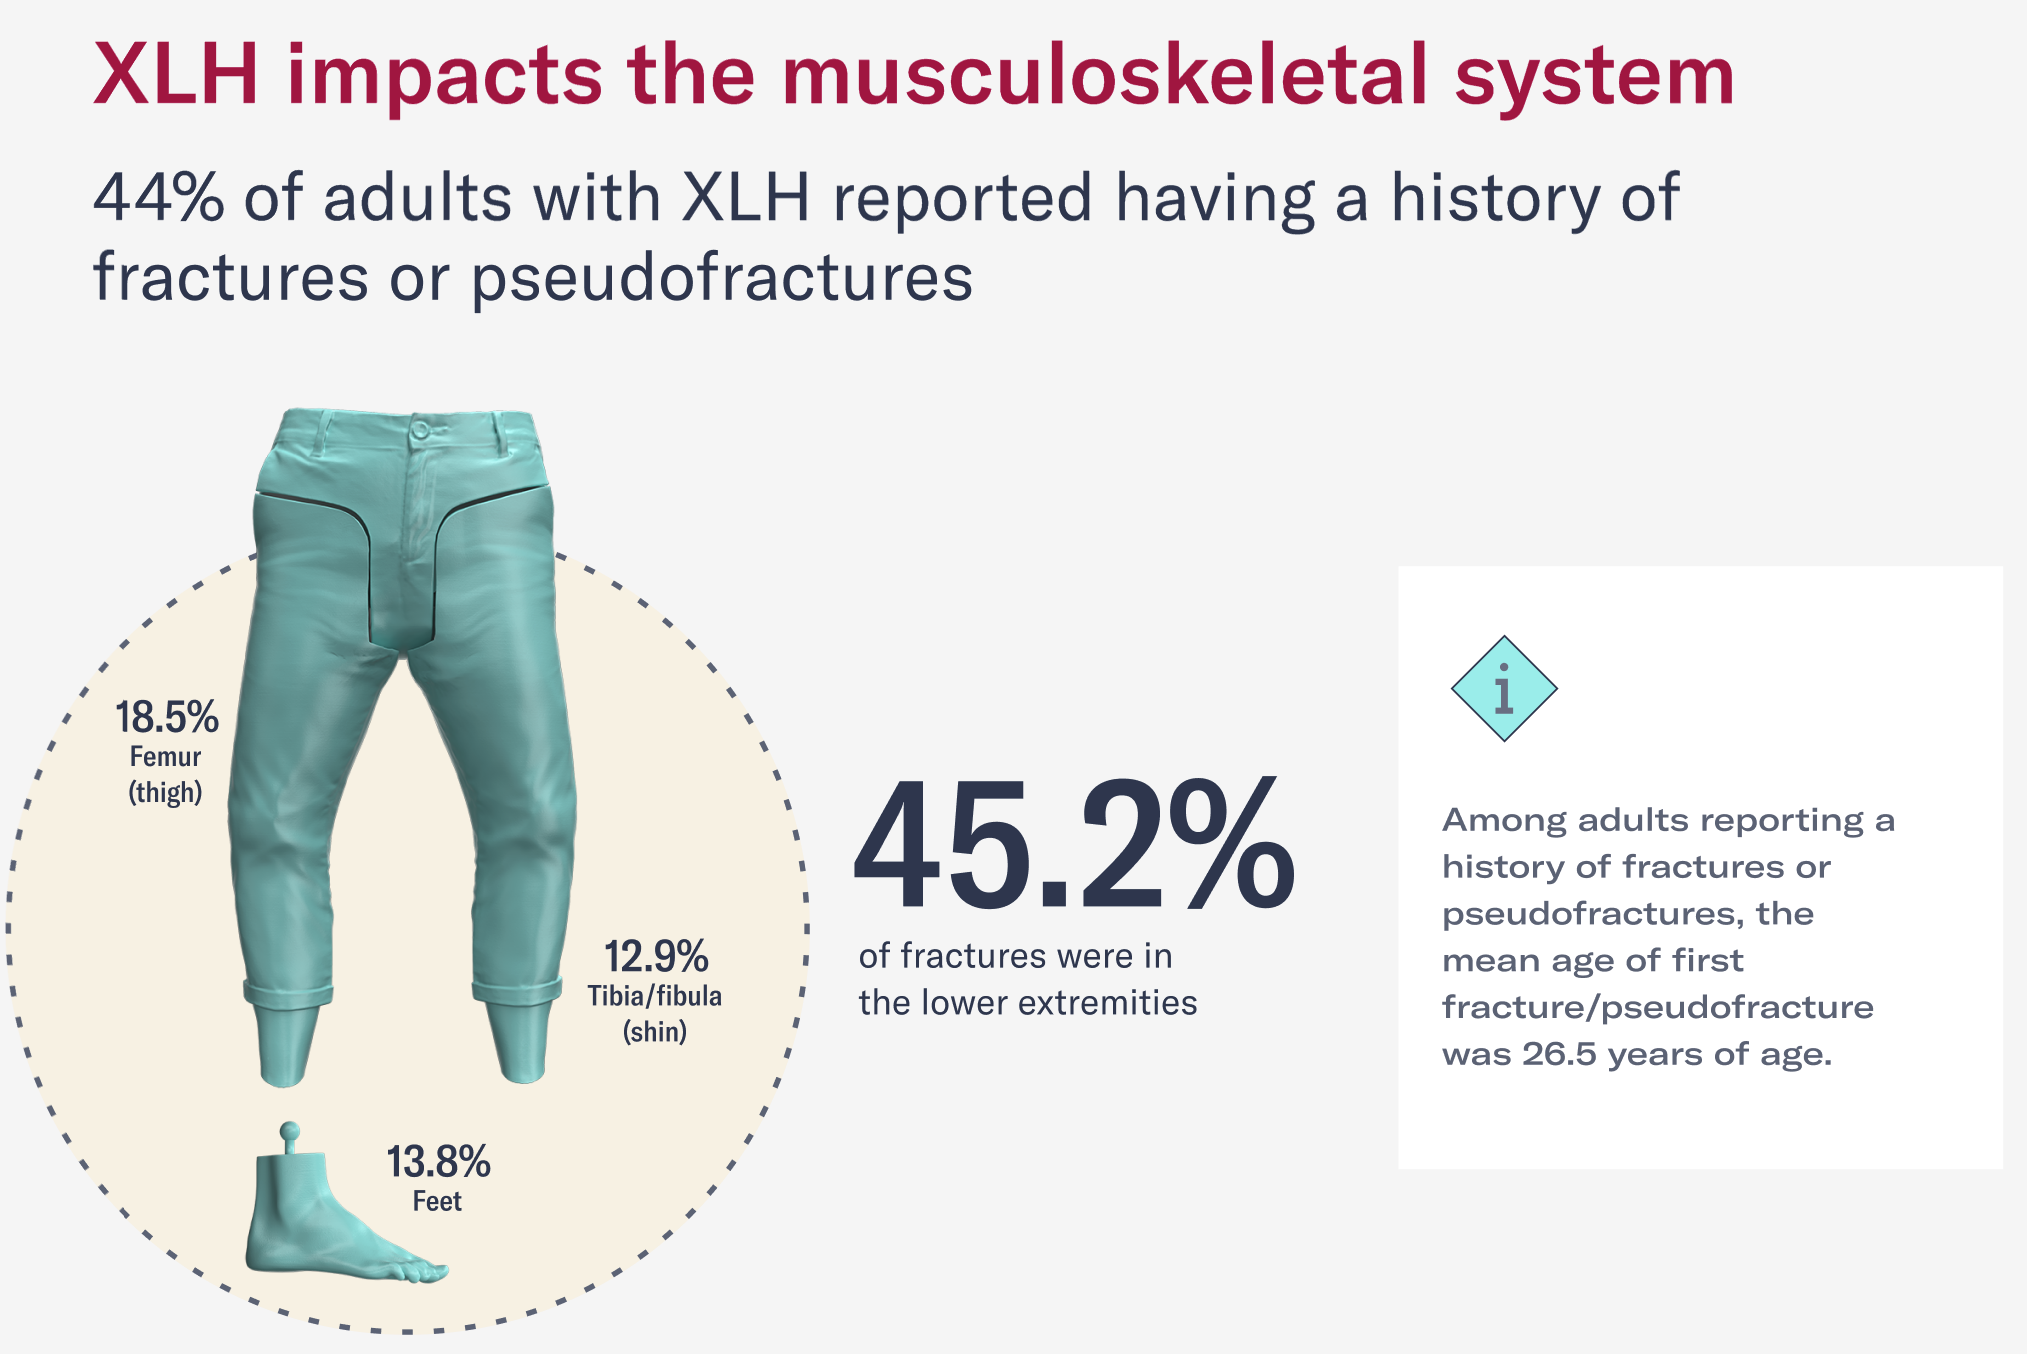
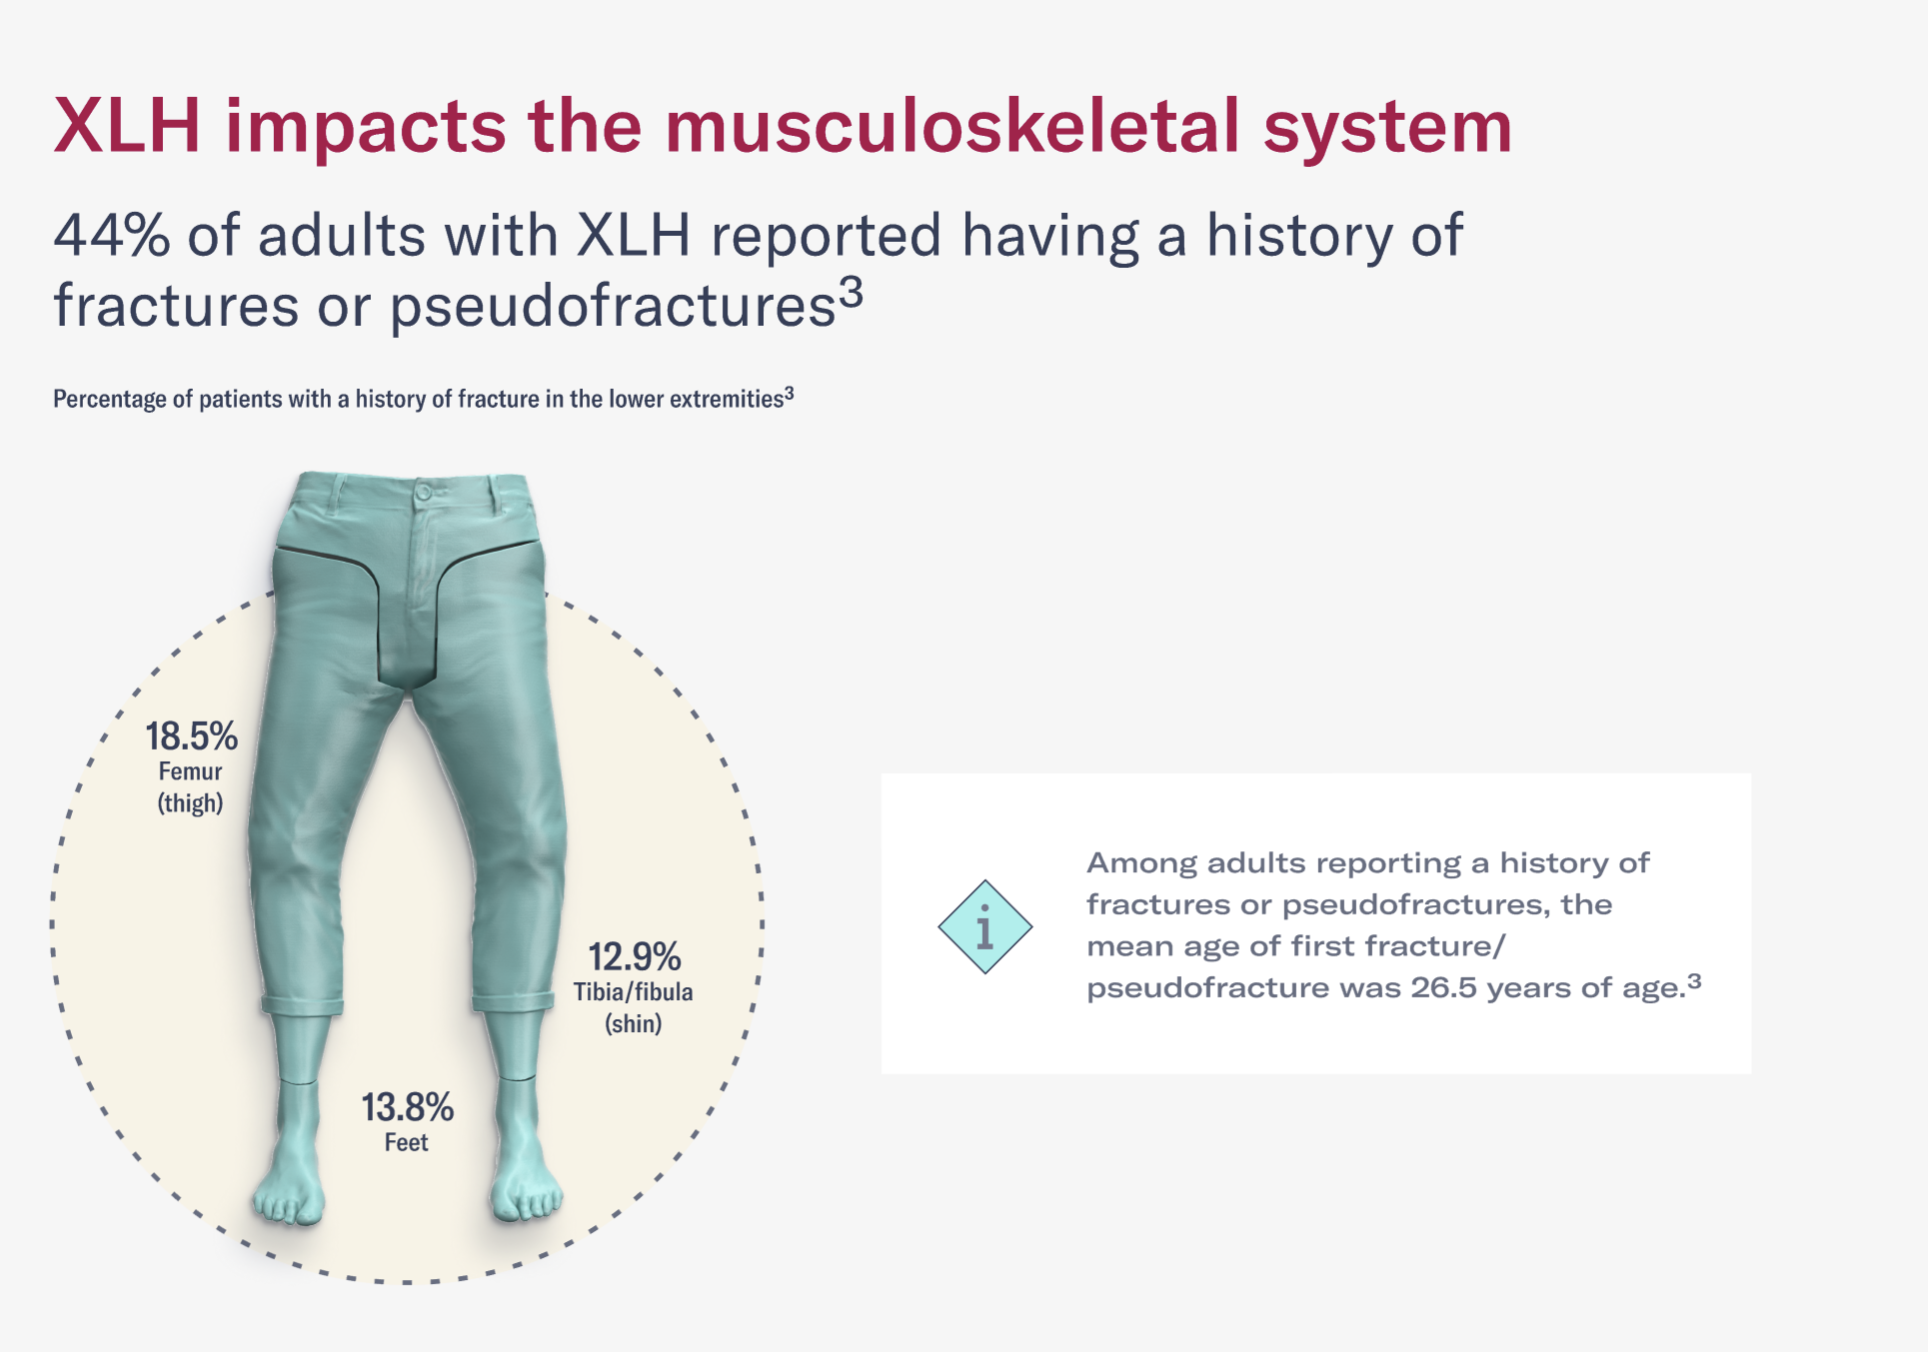
latest

diff --git a/slides/3-2-CRYSVT-adult-system/index.html b/slides/3-2-CRYSVT-adult-system/index.html
@@ -16,7 +16,7 @@
     </header>
     <div>
       <div class="content bg-none">
-        <img src="../shared/images/xlh-impacts.png" class="three-t">
+        <img src="../shared/images/xlh-impacts.png" class="full-im">
       </div>
     </div>
    <footer>

diff --git a/slides/shared/css/styles.css b/slides/shared/css/styles.css
@@ -94,7 +94,7 @@ button {
 }
 .two-dots { 
   right: -98px !important;
-  top: 51px !important;
+  /* top: 51px !important; */
 }
 .dots3 { 
   margin-top: 2px;
